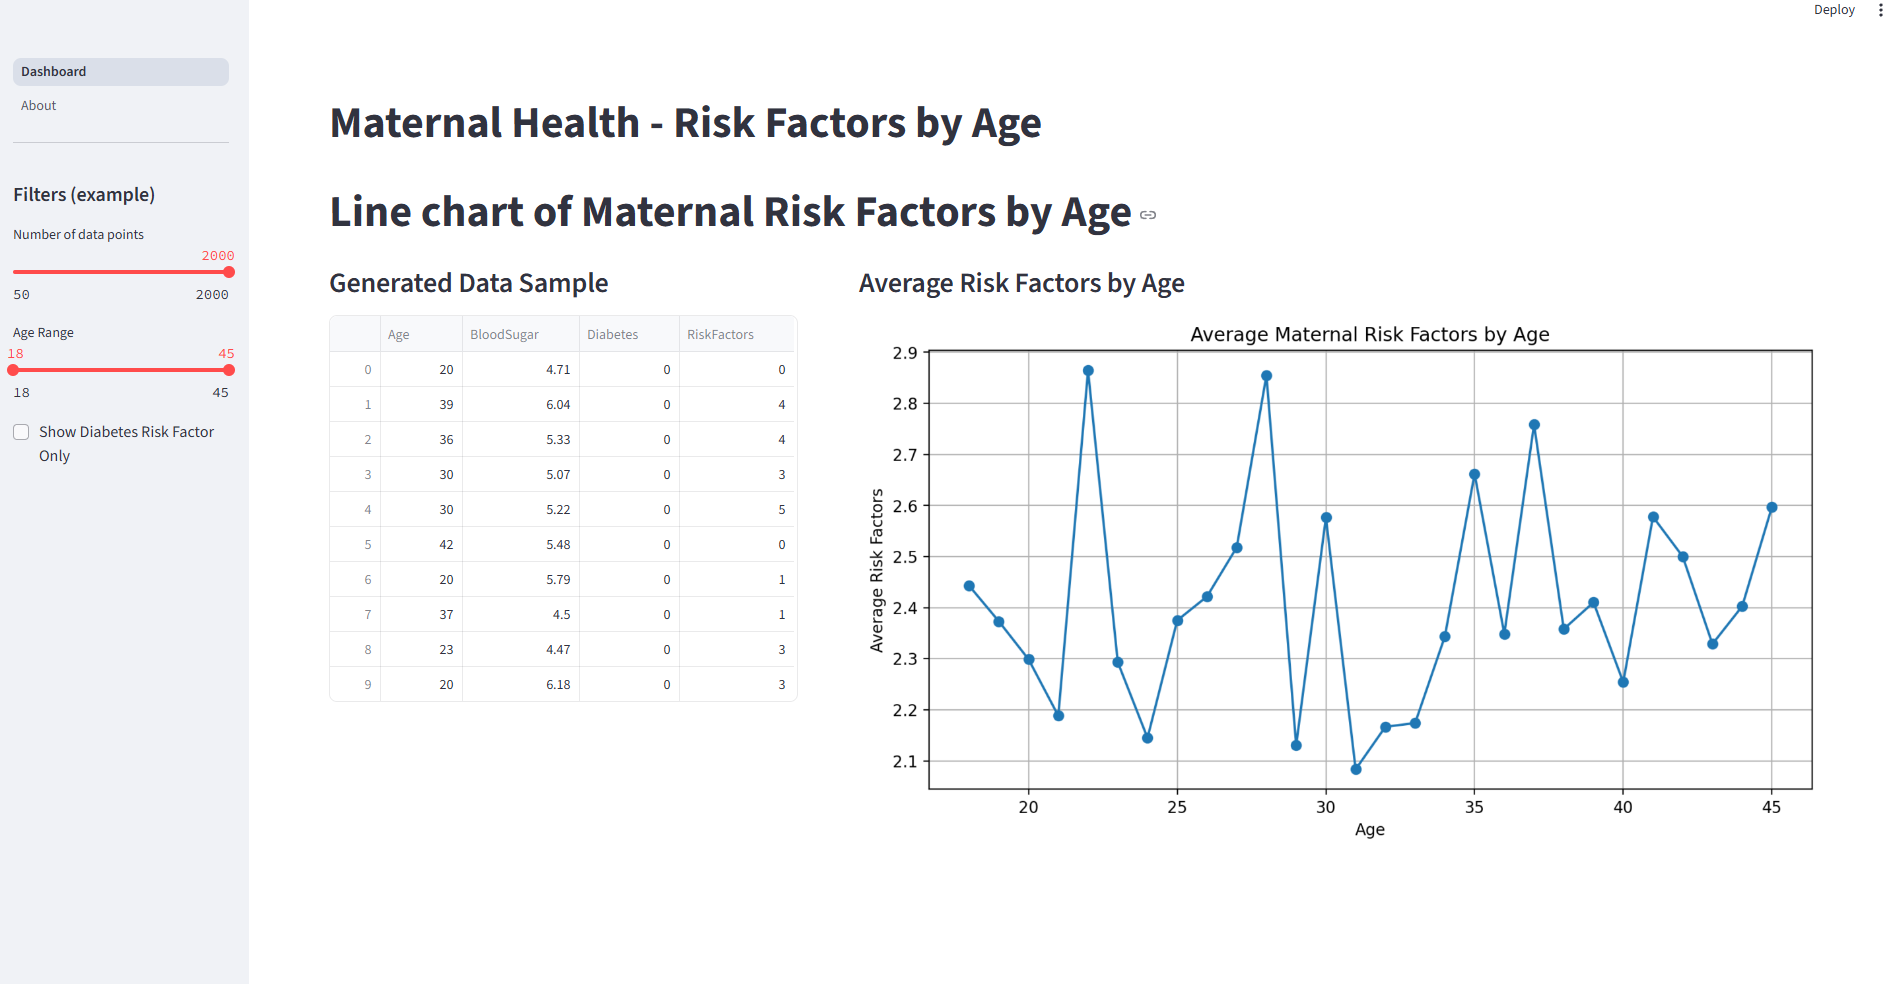
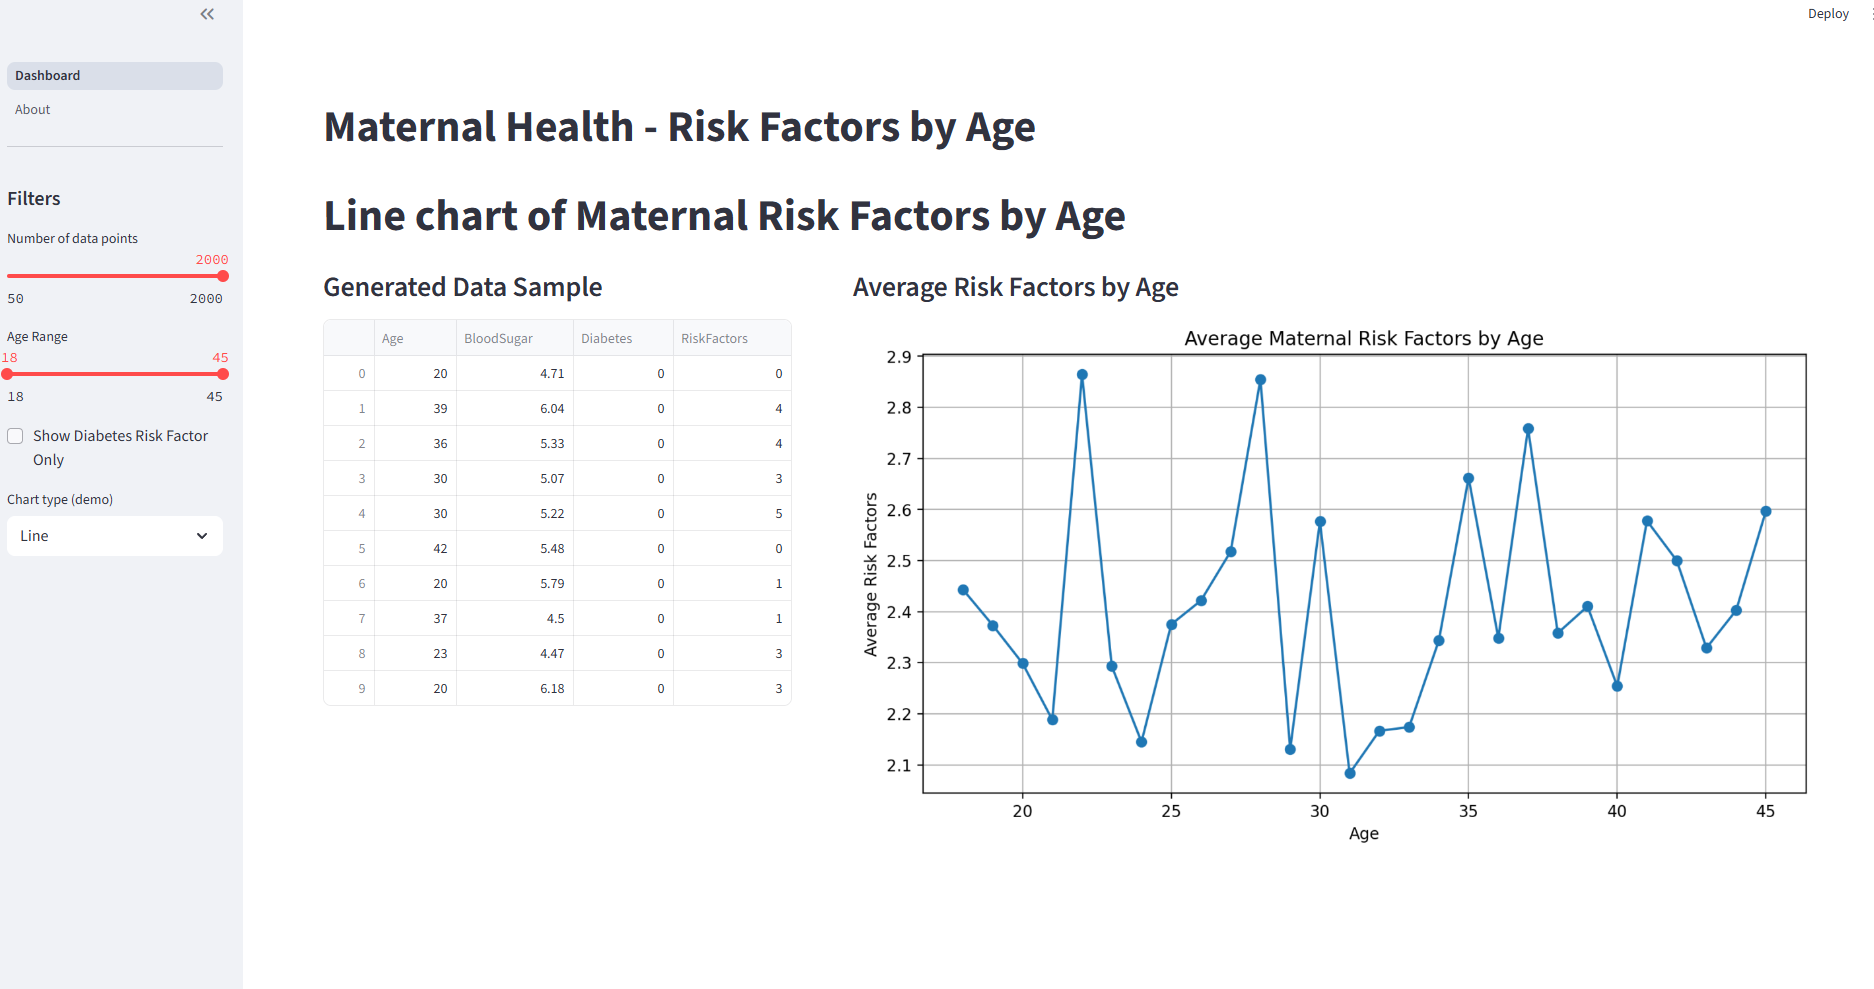
Added widget
Added another user input widget

diff --git a/Dashboard.py b/Dashboard.py
@@ -23,6 +23,8 @@ age_range = st.sidebar.slider("Age Range", min_value=18, max_value=45, value=(18
 
 show_diabetes_only = st.sidebar.checkbox("Show Diabetes Risk Factor Only", value=False)
 
+chart_type = st.sidebar.selectbox("Chart type (demo)", ["Line", "Scatter"])
+
 # Generate synthetic data
 ages = np.random.randint(18, 46, size=10)  
 
@@ -64,7 +66,11 @@ with right:
         grouped = df_filt.groupby("Age", as_index=False)["RiskFactors"].mean()
 
         fig, ax = plt.subplots(figsize=(10, 5))
-        ax.plot(grouped["Age"], grouped["RiskFactors"], marker='o')
+        if chart_type == "Scatter":
+            ax.scatter(grouped["Age"], grouped["RiskFactors"])
+        else:
+            ax.plot(grouped["Age"], grouped["RiskFactors"], marker='o')
+
         ax.set_xlabel("Age")
         ax.set_ylabel("Average Risk Factors")
         ax.set_title("Average Maternal Risk Factors by Age")

diff --git a/README.md b/README.md
@@ -17,7 +17,7 @@ This file contains a simple dashboard on maternal health risk factors. It is a l
 **About** Section that describes the context of the project.
 
 ### Widgets
-The dashboard contains three widgets for user input - one slider for numbers of data points, one for age range, and one checkbox for users who want to only view risk factors for patients with diabetes.
+The dashboard contains four widgets for user input - one slider for numbers of data points, one for age range, one checkbox for users who want to only view risk factors for patients with diabetes, and one drop down with option to view as a line or scatter graph.
 
 ### Screen shots
 Below are three screenshots from the dashboard. The first one shows the linegraph containing data on all patients in the dataframe, while the second shows patients with diabetes aged 30-39. The last screenshot shows the About-section that describes the project.
